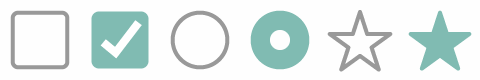
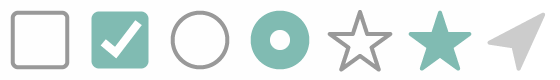
added geolocation support

diff --git a/src/weather.js b/src/weather.js
@@ -1,6 +1,6 @@
 const superagent = require('superagent')
 
-const getWeather = function (url, city, option, callback) {
+const getWeatherByCity = function (url, city, option, callback) {
   superagent
       .get(url)
       .query({q: city})
@@ -25,6 +25,32 @@ const getWeather = function (url, city, option, callback) {
       })
 }
 
+const getWeatherByCoord = function (url, lat, lon, option, callback) {
+  superagent
+      .get(url)
+      .query({lat: lat})
+      .query({lon: lon})
+      .query({units: getFormat()})
+      .query({appid: getApiKey()})
+      .end(function (err, res) {
+        loading[option] = false
+        if (err || !res.ok) {
+          showErrorMessage('Failure during data fetching')
+        } else {
+          wdata[option] = res.body
+          checkLoading()
+          if (wdata[option].cod != 404) {
+            if (option == 0) setCity(wdata[option].name + ', ' + wdata[option].sys.country.toUpperCase())
+            if (callback && typeof (callback) === 'function') {
+              callback()
+            }
+          } else {
+            showErrorMessage(wdata[option].message)
+          }
+        }
+      })
+}
+
 const refreshInfo = function () {
   const info = setInterval(function ()
     {
@@ -37,9 +63,9 @@ const refreshWeather = function () {
   jQuery('.spinner').fadeIn()
   startLoading()
   reset()
-  getWeather(config.weather.url.actual, getCity(), 0, showWeatherData)
-  getWeather(config.weather.url.daily, getCity(), 1, showForecastWeatherData)
-  getWeather(config.weather.url.hourly, getCity(), 2)
+  getWeatherByCity(config.weather.url.actual, getCity(), 0, showWeatherData)
+  getWeatherByCity(config.weather.url.daily, getCity(), 1, showForecastWeatherData)
+  getWeatherByCity(config.weather.url.hourly, getCity(), 2)
 
   window.setTimeout(function () {
     if (getMbInfo() & wdata[0].cod != 404) {
@@ -243,4 +269,44 @@ const showHourlyWeatherData = function () {
       }
     }
   })
+}
+
+const getGeolocation = function () {
+
+  jQuery('.spinner').fadeIn()
+  startLoading()
+
+  superagent
+      .get(config.location.url)
+      .query({browser: 'chromium'})
+      .query({sensor: true})
+      .end(function (err, res) {
+        if (err || !res.ok) {
+          console.log(err)
+          showErrorMessage('Failure during location fetching')
+        } else {
+          const lat = res.body.location.lat
+          const lon = res.body.location.lng
+
+          reset()
+          getWeatherByCoord(config.weather.url.actual, lat, lon, 0, showWeatherData)
+          getWeatherByCoord(config.weather.url.daily, lat, lon, 1, showForecastWeatherData)
+          getWeatherByCoord(config.weather.url.hourly, lat, lon, 2)
+
+          window.setTimeout(function () {
+            if (getMbInfo() & wdata[0].cod != 404) {
+              ipcRenderer.send('set-title', {
+                temperature: roundTemp(wdata[0].main.temp),
+                location: getCity(),
+                icon: wdata[0].weather[0].icon
+              })
+            }
+            if (wdata[0].cod != 404) {
+              getTimezone()
+            }
+          }, 500)
+
+          window.setTimeout(colorPalette, 1000)
+        }
+      })
 }

diff --git a/index.html b/index.html
@@ -63,6 +63,7 @@
                 <div class="form-item">
                     <label for="city">City</label>
                     <input type="text" name="city" id="city" value="" autofocus/>
+                    <div class="geolocation"></div>
                     <label class="inline fav"><input type="checkbox" name="favorite-city" value="false"><span></span></label>
                 </div>
                 <div class="form-item">
@@ -96,7 +97,7 @@
                     <button class="quit pull-right">Quit</button>
                 </div>
                 <div class="footer">
-                    <a href="https://jackd248.github.io/temps/" target="_blank" alt="temps">temps</a> - v0.5.1 &copy; 2016
+                    <a href="https://jackd248.github.io/temps/" target="_blank" alt="temps">temps</a> - v0.6 &copy; 2016
                 </div>
             </div>
         </div>

diff --git a/src/style.css b/src/style.css
@@ -435,7 +435,6 @@ h1:after {
     color: #000000;
     font-size: 18px;
     display: inline-block;
-    padding-left: 10px;
 }
 
 #settings .form-item input[type="text"] {
@@ -454,7 +453,7 @@ h1:after {
 }
 
 #settings .form-item input[type="text"][name="city"] {
-    padding-right: 20px;
+    padding-right: 40px;
 }
 
 #settings .form-item label.fav {
@@ -476,6 +475,19 @@ h1:after {
 
 #settings .form-item span.help a, #settings .footer a {
     color: #000;
+}
+
+#settings .form-item .geolocation {
+    width:20px;
+    height:20px;
+    position: absolute;
+    right: 30px;
+    margin-top: -22px;
+    display:inline-block;
+    vertical-align:middle;
+    background:url(../assets/checkboxes@2x.png) -120px top no-repeat;
+    background-size: cover;
+    cursor:pointer;
 }
 
 input[type="checkbox"], input[type="radio"] {

diff --git a/app.js b/app.js
@@ -182,8 +182,13 @@ const template = [{
       if (focusedWindow) focusedWindow.webContents.send('favorite-city')
     }
     },
-    { label: 'Randomn City', accelerator: 'CmdOrCtrl+W', click: function (item, focusedWindow) {
+    {
+      label: 'Randomn City', accelerator: 'CmdOrCtrl+W', click: function (item, focusedWindow) {
       if (focusedWindow) focusedWindow.webContents.send('random-city')
+    }
+    },
+    { label: 'Geolocation', accelerator: 'CmdOrCtrl+G', click: function (item, focusedWindow) {
+      if (focusedWindow) focusedWindow.webContents.send('geolocation')
     }
     }
       ]}

diff --git a/src/main.js b/src/main.js
@@ -98,6 +98,11 @@ const loadEventListener = function () {
     toggleSettings()
   })
 
+  jQuery('#settings .geolocation').click(function () {
+    getGeolocation()
+    toggleSettings()
+  })
+
   jQuery('a').click(function (e) {
     e.preventDefault()
     const target = jQuery(this).attr('href')
@@ -128,6 +133,8 @@ const loadEventListener = function () {
   ipcRenderer.on('favorite-city', favoriteCity)
 
   ipcRenderer.on('random-city', randomCity)
+
+  ipcRenderer.on('geolocation', getGeolocation)
 }
 
 const init = function () {

diff --git a/README.md b/README.md
@@ -40,7 +40,8 @@ You can use the following shortcuts for easy usage of Temps:
 * <kbd>Cmd</kbd> + <kbd>F</kbd> Search weather for your favorite city
 * <kbd>Cmd</kbd> + <kbd>R</kbd> Reload application
 * <kbd>Cmd</kbd> + <kbd>E</kbd> Reload weather data
-* <kbd>Cmd</kbd> + <kbd>W</kbd> Search random city weather data
+* <kbd>Cmd</kbd> + <kbd>W</kbd> Search random city weather 
+* <kbd>Cmd</kbd> + <kbd>G</kbd> Find your location
 * <kbd>Cmd</kbd> + <kbd>Q</kbd> Close application
 
 ![temps screenshot](assets/screenshot-overview.png)
@@ -68,6 +69,10 @@ You can [download](https://github.com/jackd248/temps/releases) the latest stable
 __You need a free API Key by [OpenWeatherMap](http://openweathermap.org/) to fetch weather information.__
 
 Because of this is a non-profit project, I'm not able to offer unlimited access to weather information by myself. 
+
+For the start you can use the built-in key to get the weather data. But it can be possible with heavy data traffic, that the service isn't available for this key all the time. 
+
+The apps are also not signed for now. So you need to grant usage by the system to run the app. 
 
 ## Credits
 
